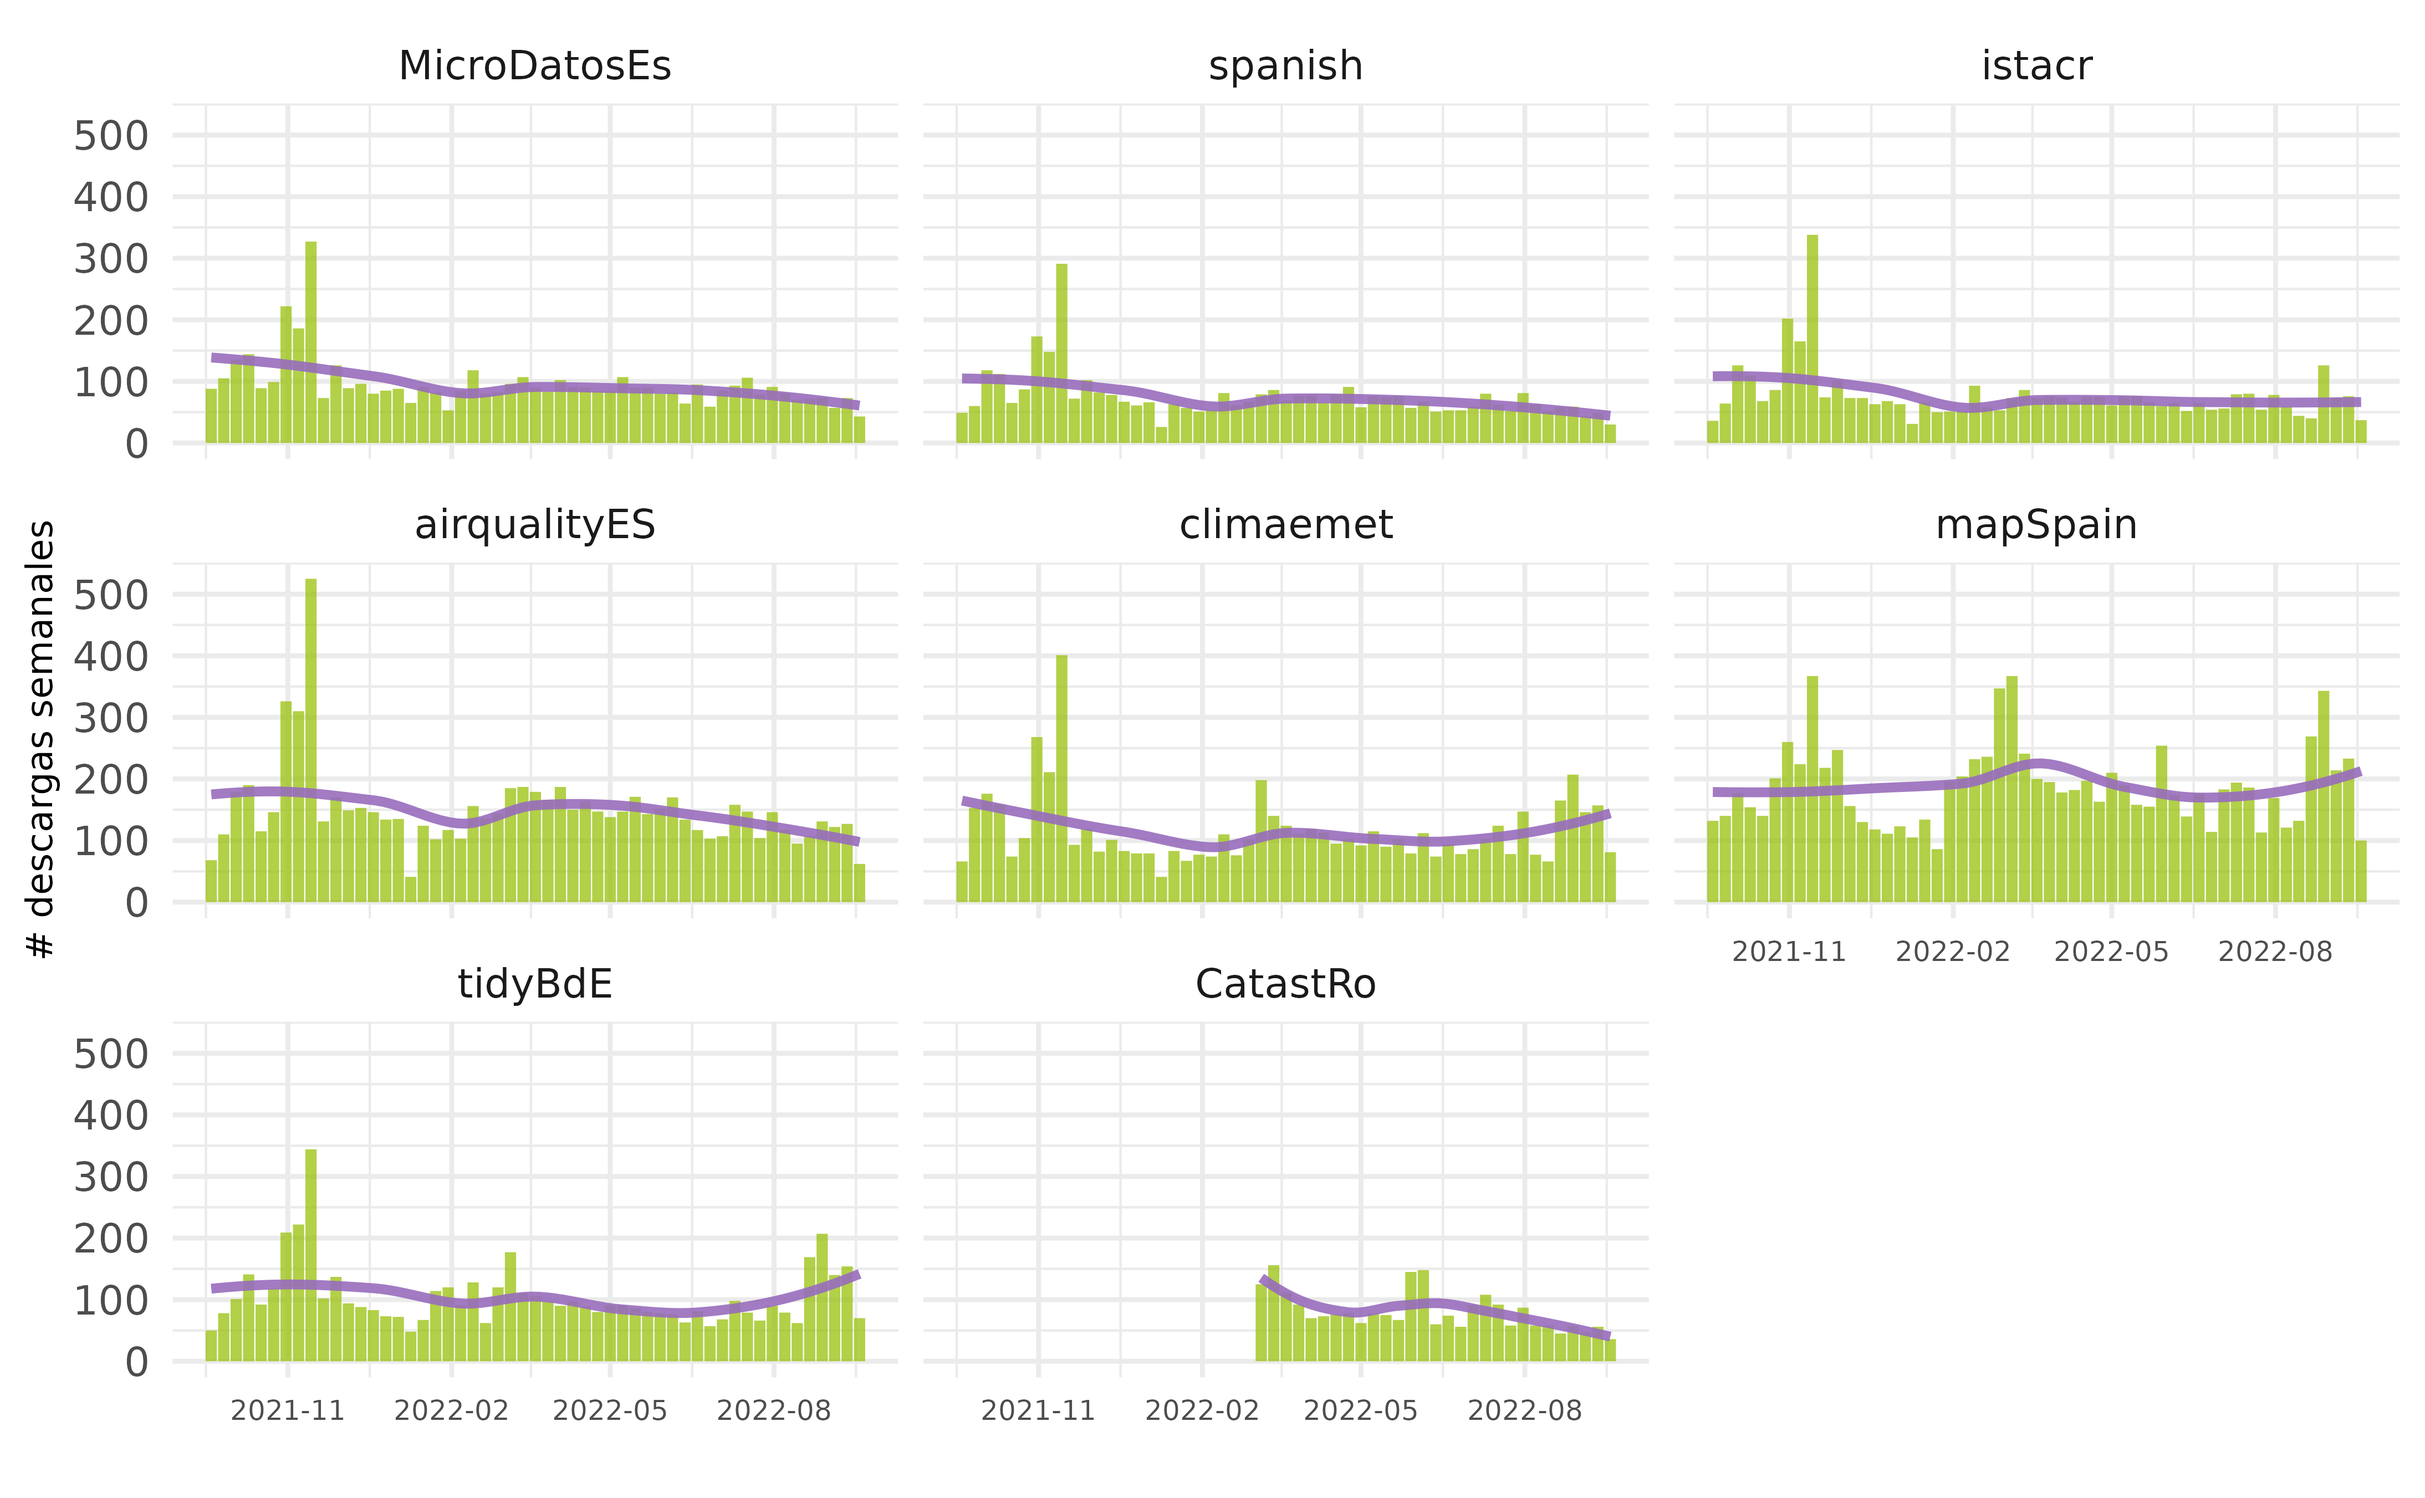
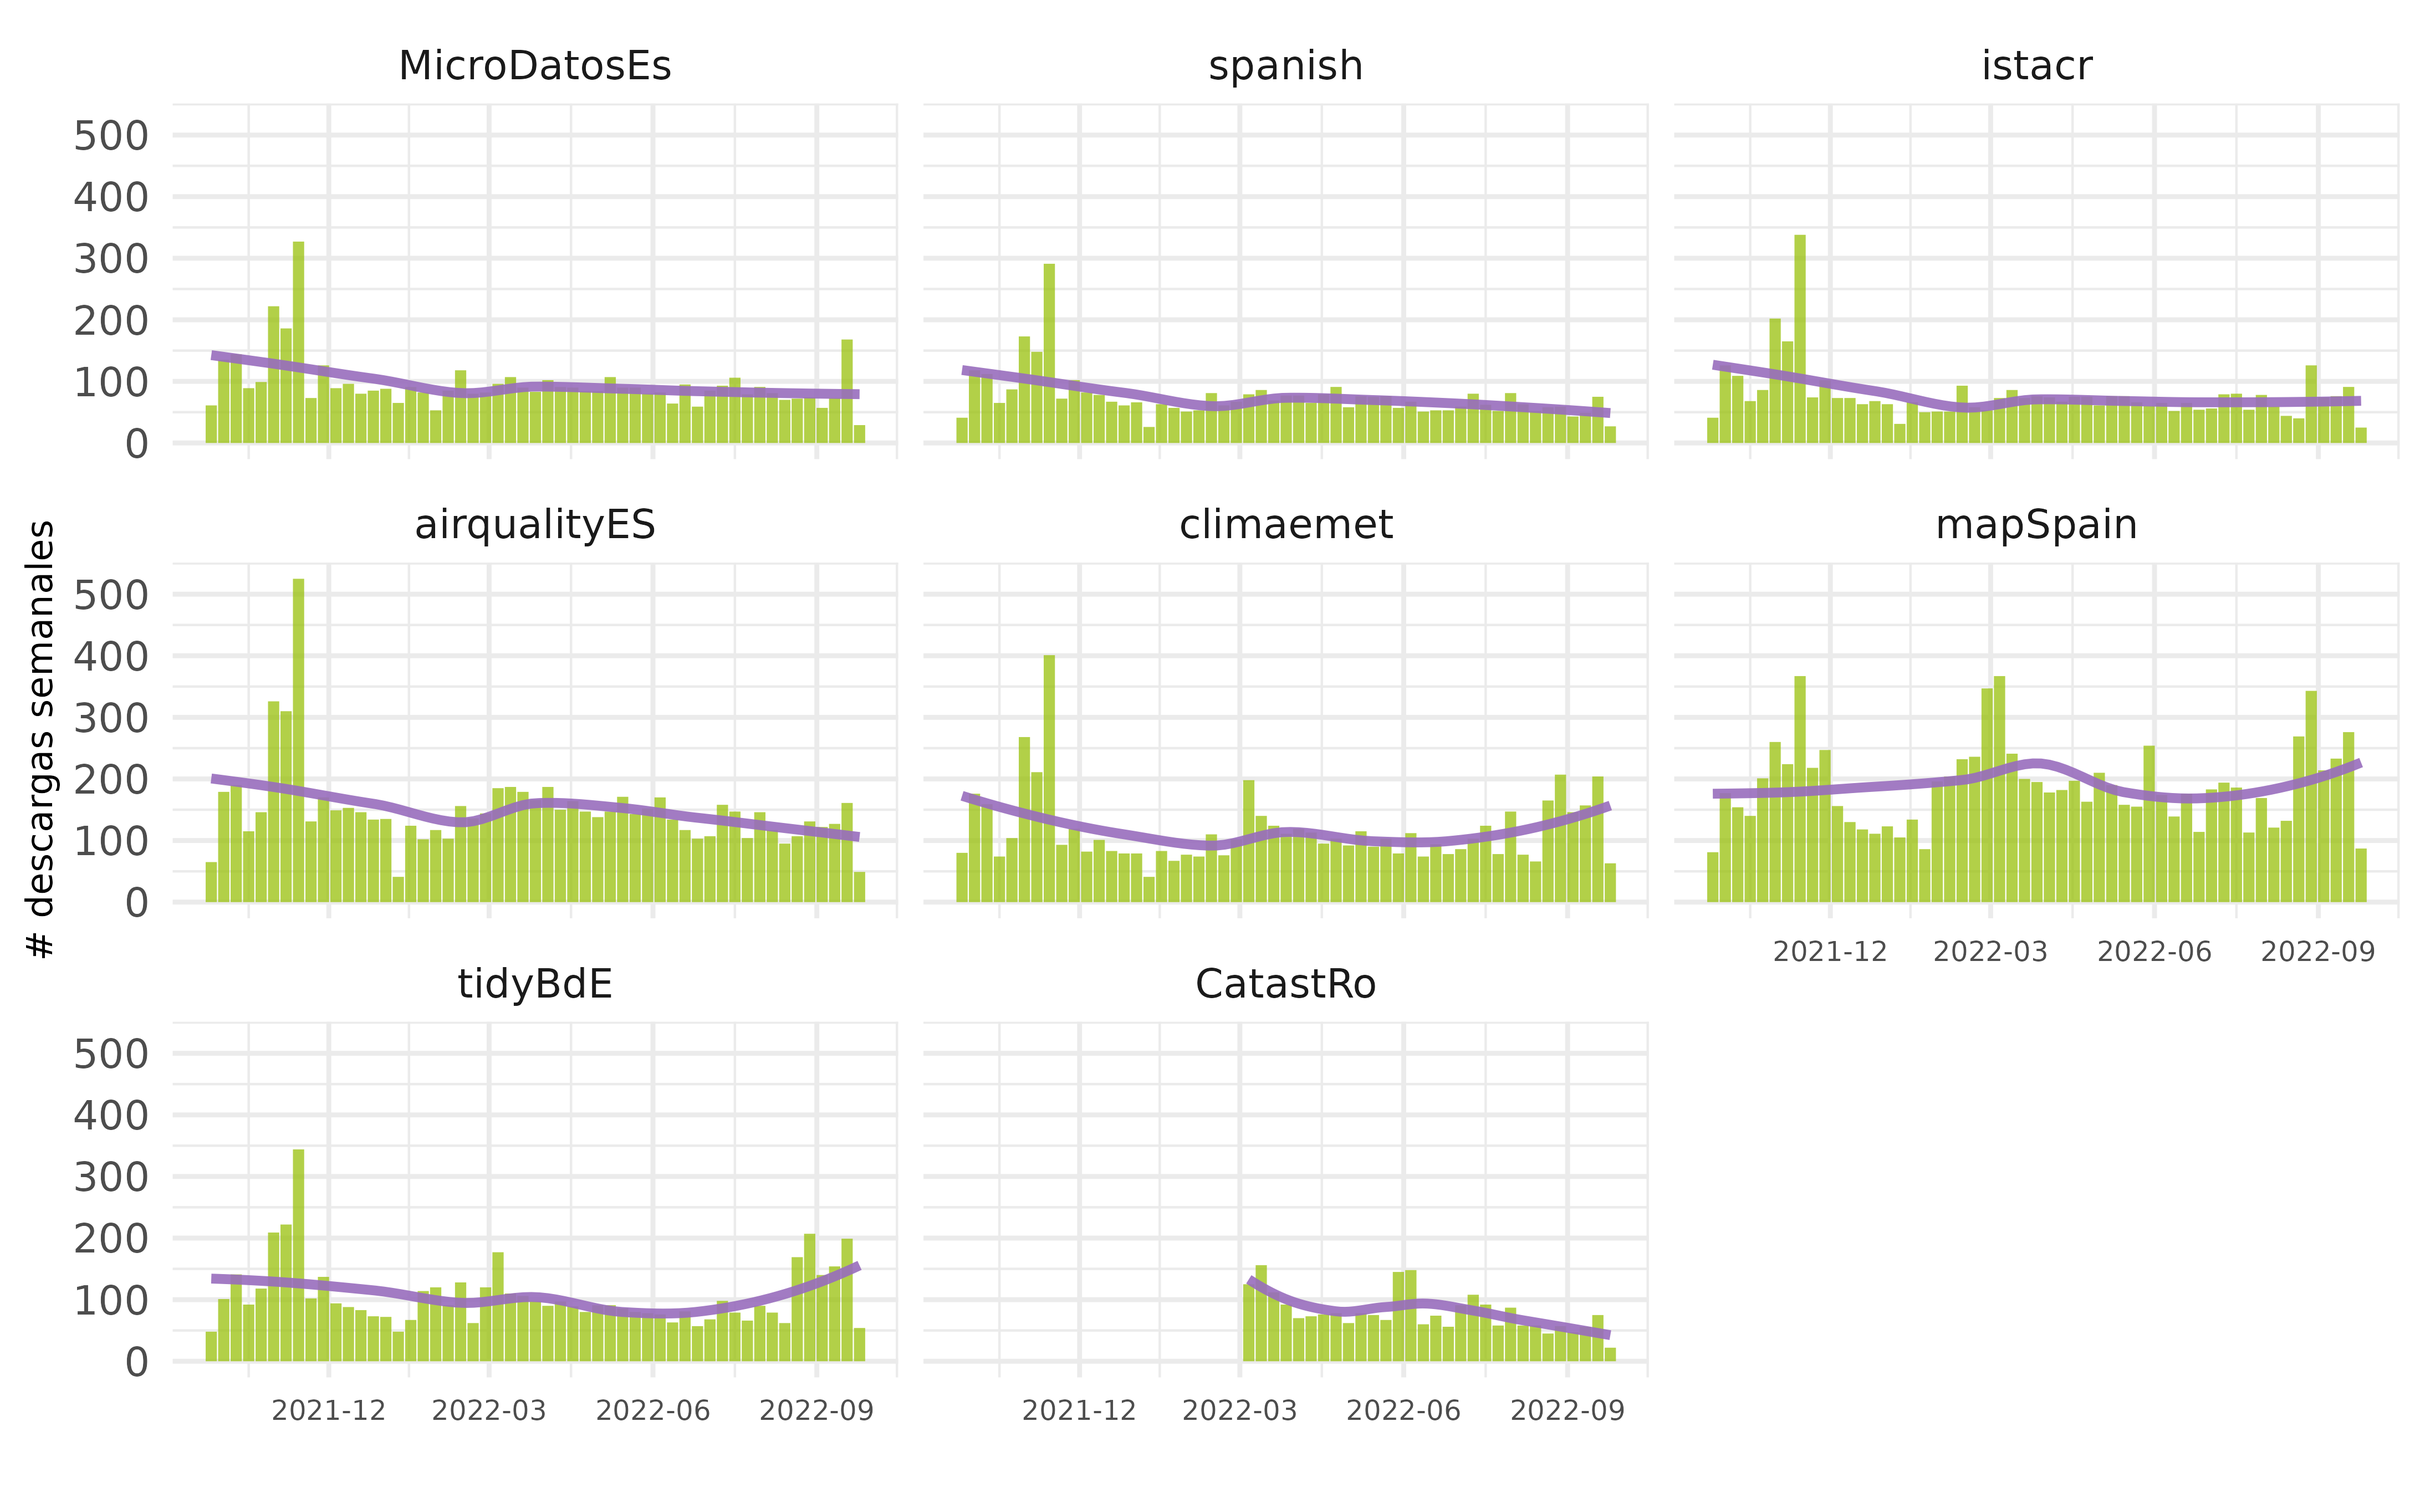
Built site for rostemplate: 0.1.1.9000@9bdd130

diff --git a/articles/descargas.html b/articles/descargas.html
@@ -100,7 +100,7 @@
 
     
     
-<p><em>Fecha de actualización: 15 Sep 2022</em></p>
+<p><em>Fecha de actualización: 22 Sep 2022</em></p>
 <p>Descargas de paquetes de rOpenSpain desde CRAN.</p>
 <div class="section level2">
 <h2 id="total-de-descargas">Total de descargas<a class="anchor" aria-label="anchor" href="#total-de-descargas"></a>
@@ -116,7 +116,7 @@
 <h2 id="datos">Datos<a class="anchor" aria-label="anchor" href="#datos"></a>
 </h2>
 <div id="station-table" class="reactable html-widget" style="width:auto;height:auto;"></div>
-<script type="application/json" data-for="station-table">{"x":{"tag":{"name":"Reactable","attribs":{"data":{"paquete":["CatastRo","tidyBdE","mapSpain","climaemet","airqualityES","istacr","spanish","MicroDatosEs"],"en CRAN":["2022-02-28","2021-04-08","2020-11-30","2020-07-07","2020-02-29","2019-04-24","2017-12-14","2013-10-21"],"media descargas diarias":[11.8,15.1,23.5,15.5,21.4,13.1,11.6,13.2],"ultimo dia":[11,8,21,13,11,8,7,15],"ultima semana":[64,155,222,161,116,74,56,89],"ultimo mes":[237,723,1121,744,544,350,236,315],"ultimo año":[2340,5585,9988,6155,7973,4140,3967,5106]},"columns":[{"accessor":"paquete","name":"paquete","type":"character"},{"accessor":"en CRAN","name":"en CRAN","type":"Date"},{"accessor":"media descargas diarias","name":"media descargas diarias","type":"numeric"},{"accessor":"ultimo dia","name":"ultimo dia","type":"numeric"},{"accessor":"ultima semana","name":"ultima semana","type":"numeric"},{"accessor":"ultimo mes","name":"ultimo mes","type":"numeric"},{"accessor":"ultimo año","name":"ultimo año","type":"numeric"}],"filterable":true,"searchable":true,"defaultPageSize":10,"showPageSizeOptions":true,"pageSizeOptions":[10,25,50,100],"paginationType":"jump","showPageInfo":true,"minRows":1,"striped":true,"elementId":"station-table","dataKey":"b464f7c57c650b3427403a6e14c03339"},"children":[]},"class":"reactR_markup"},"evals":[],"jsHooks":[]}</script>
+<script type="application/json" data-for="station-table">{"x":{"tag":{"name":"Reactable","attribs":{"data":{"paquete":["CatastRo","tidyBdE","mapSpain","climaemet","airqualityES","istacr","spanish","MicroDatosEs"],"en CRAN":["2022-02-28","2021-04-08","2020-11-30","2020-07-07","2020-02-29","2019-04-24","2017-12-14","2013-10-21"],"media descargas diarias":[11.7,15.2,23.6,15.6,21.4,13.1,11.6,13.2],"ultimo dia":[14,49,59,51,30,20,15,14],"ultima semana":[43,117,168,127,114,50,53,73],"ultimo mes":[248,706,1095,725,555,382,243,389],"ultimo año":[2401,5688,10060,6202,8008,4160,3971,5128]},"columns":[{"accessor":"paquete","name":"paquete","type":"character"},{"accessor":"en CRAN","name":"en CRAN","type":"Date"},{"accessor":"media descargas diarias","name":"media descargas diarias","type":"numeric"},{"accessor":"ultimo dia","name":"ultimo dia","type":"numeric"},{"accessor":"ultima semana","name":"ultima semana","type":"numeric"},{"accessor":"ultimo mes","name":"ultimo mes","type":"numeric"},{"accessor":"ultimo año","name":"ultimo año","type":"numeric"}],"filterable":true,"searchable":true,"defaultPageSize":10,"showPageSizeOptions":true,"pageSizeOptions":[10,25,50,100],"paginationType":"jump","showPageInfo":true,"minRows":1,"striped":true,"elementId":"station-table","dataKey":"eb42a47e8cf567c00b50c5180c9598c4"},"children":[]},"class":"reactR_markup"},"evals":[],"jsHooks":[]}</script>
 </div>
   </main><aside class="col-md-3"><nav id="toc"><h2>En esta página</h2>
     </nav></aside>
